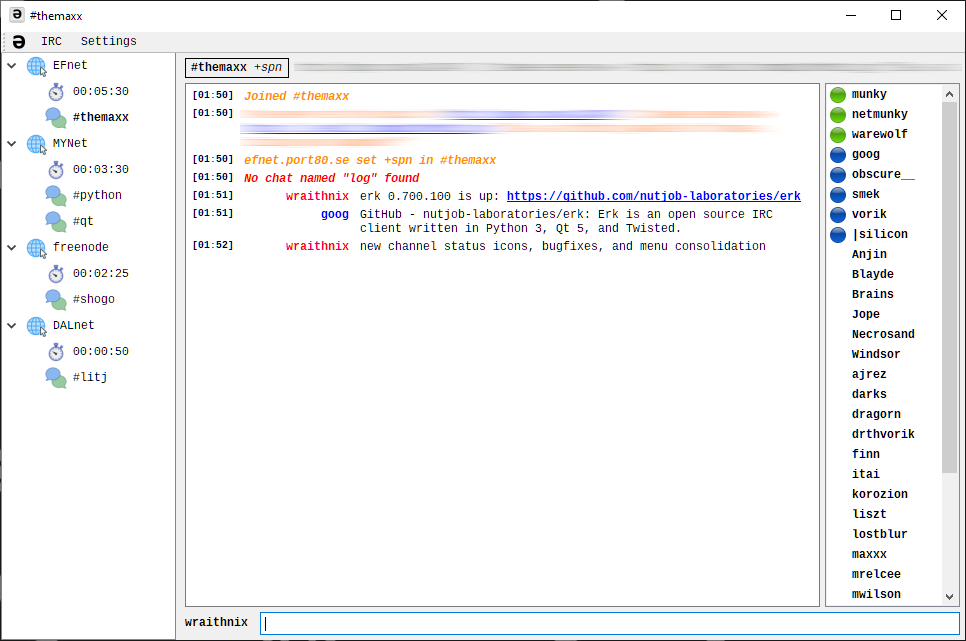
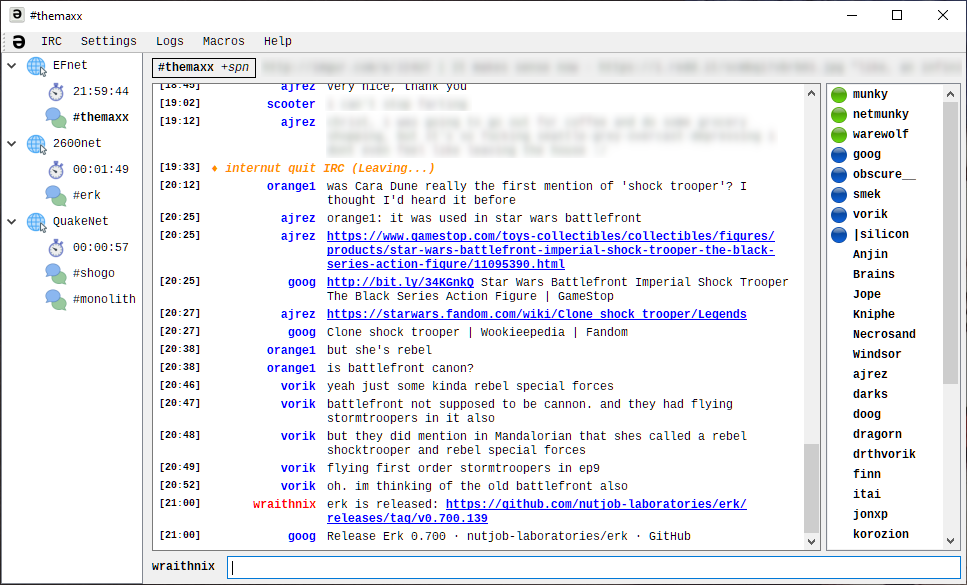
Documentation update

Changed region(s): [[0.0, 0.0, 1.0, 1.0], [0.1553, 0.4615, 0.2174, 0.4923]]

diff --git a/README.md b/README.md
@@ -12,7 +12,7 @@
 
 <p align="center">
 	<a href="https://github.com/nutjob-laboratories/erk/raw/master/images/screenshot_full.png"><img src="https://github.com/nutjob-laboratories/erk/raw/master/images/screenshot.png"></a><br>
-	<b>Erk connected to EFnet, Freenode, DALnet, and a private server</b><br>
+	<b>Erk connected to EFnet, 2600net, and QuakeNet</b><br>
 	<i>Click image to enlarge</i><br>
 </p>
 
